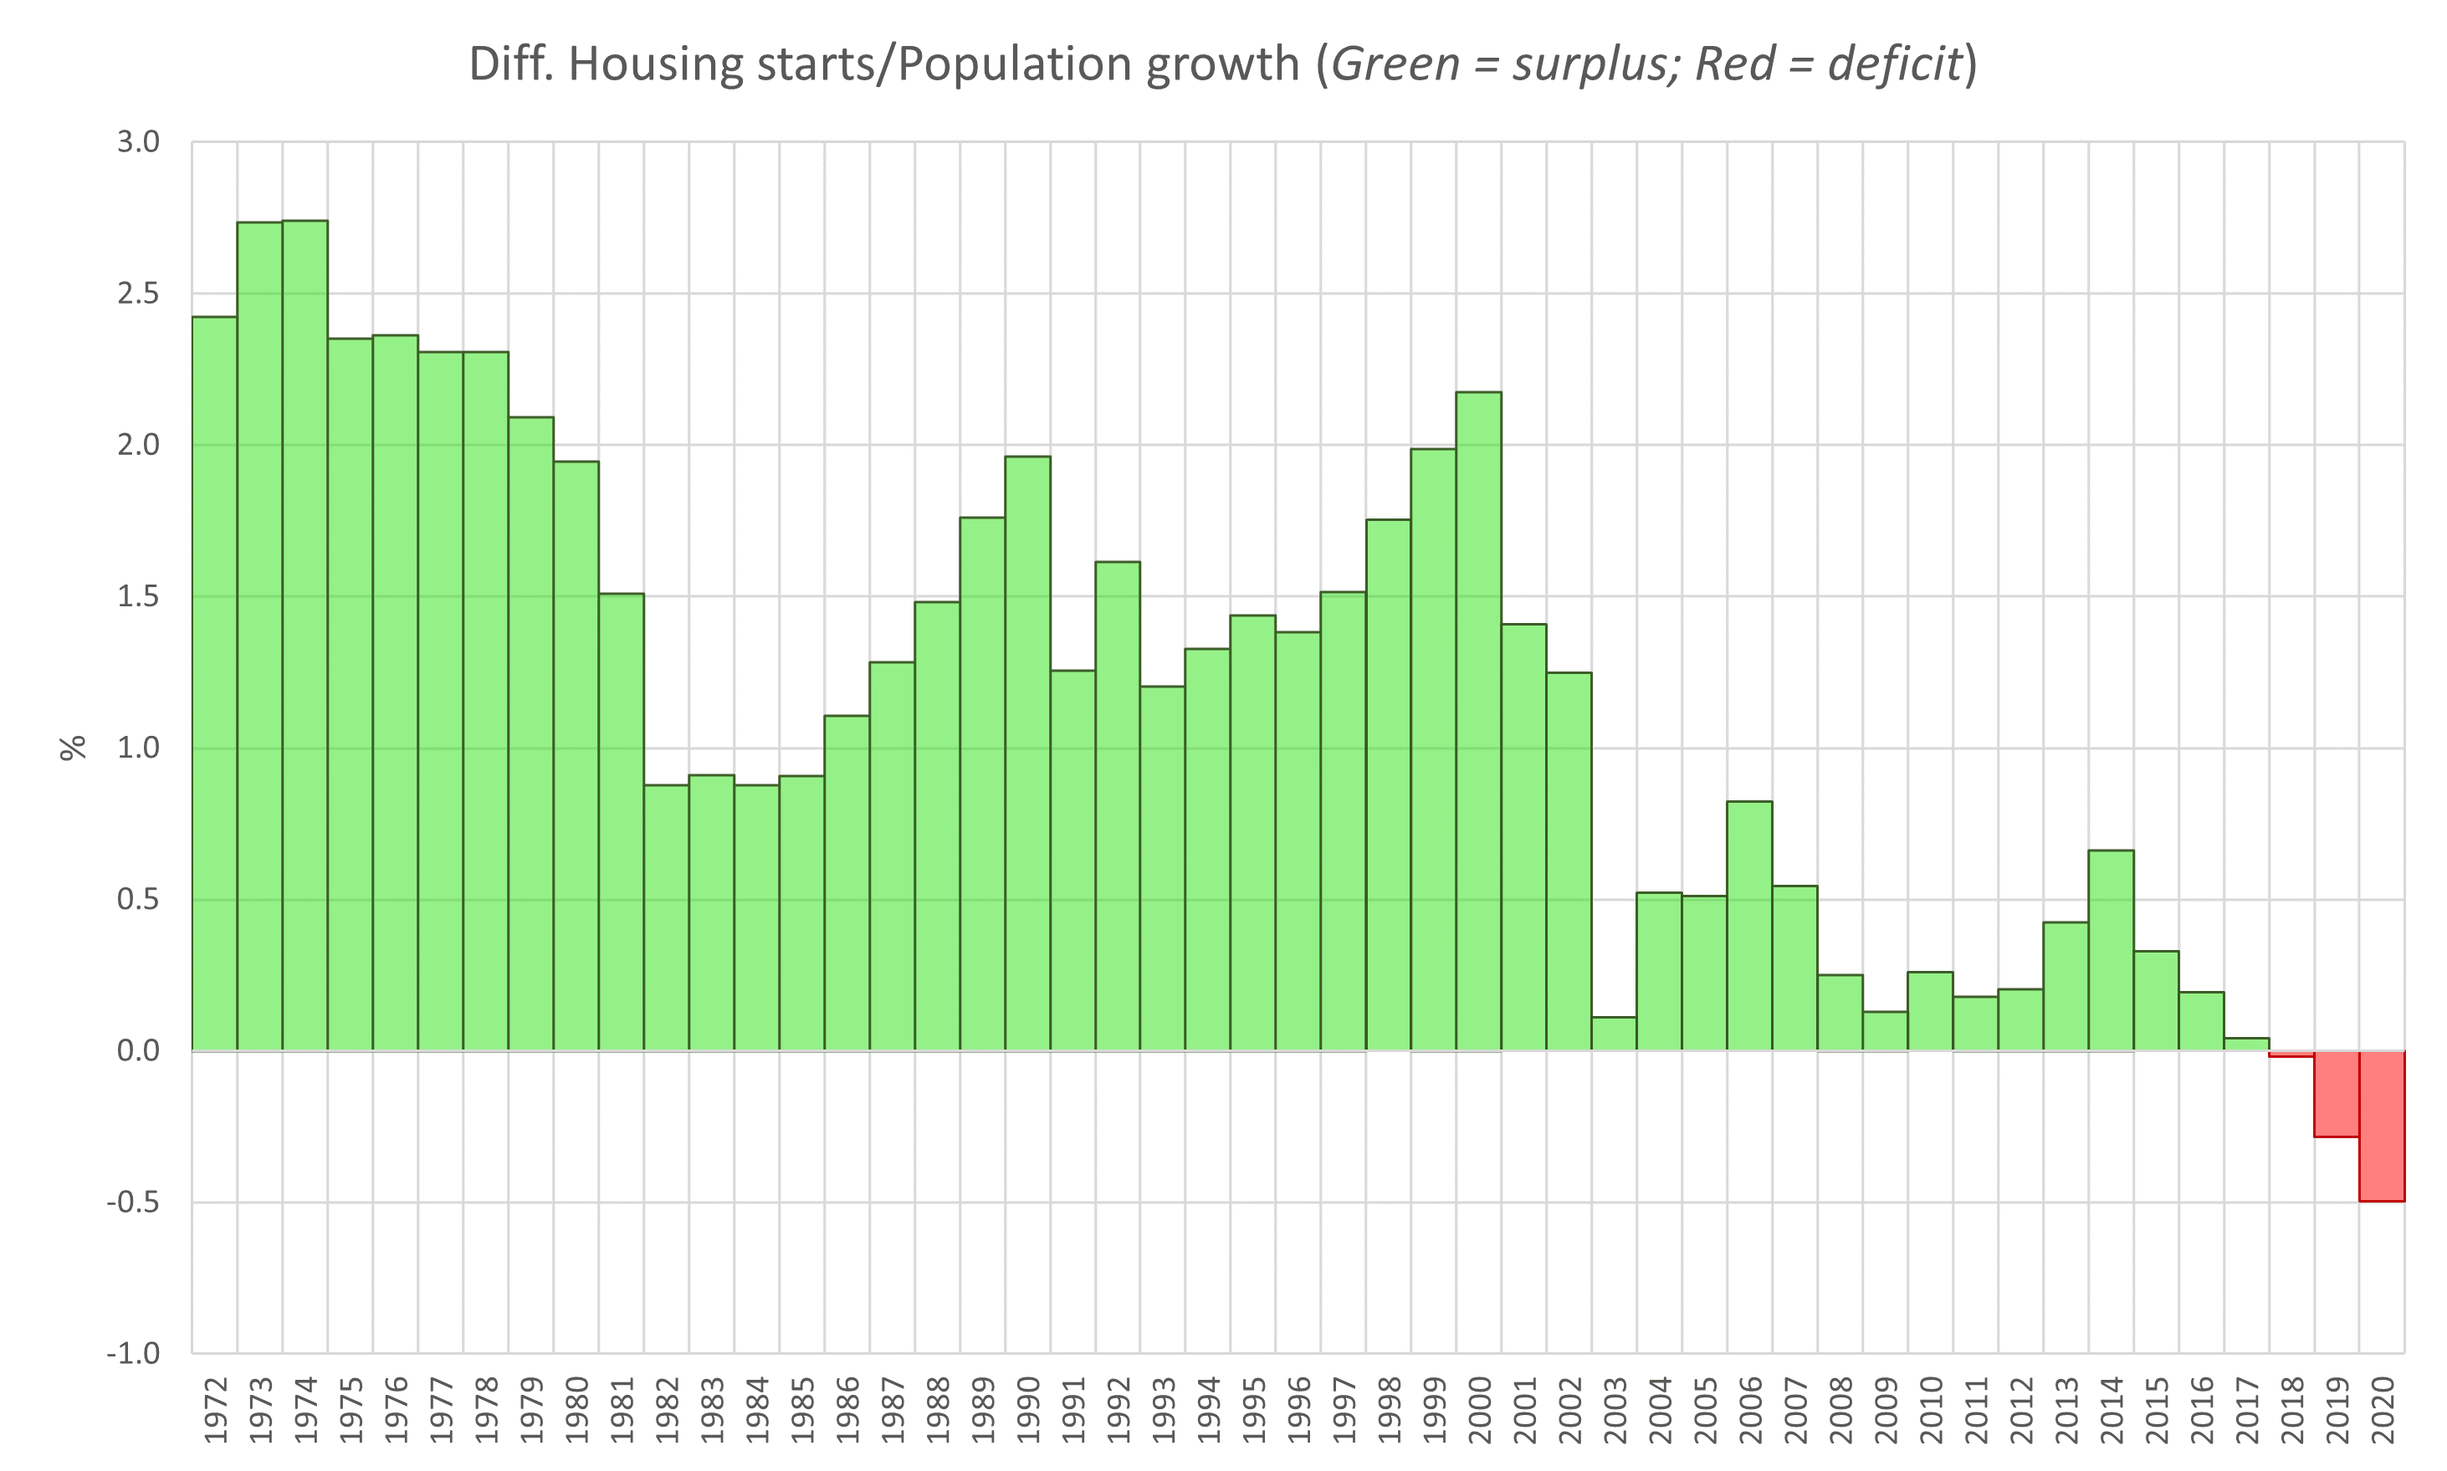
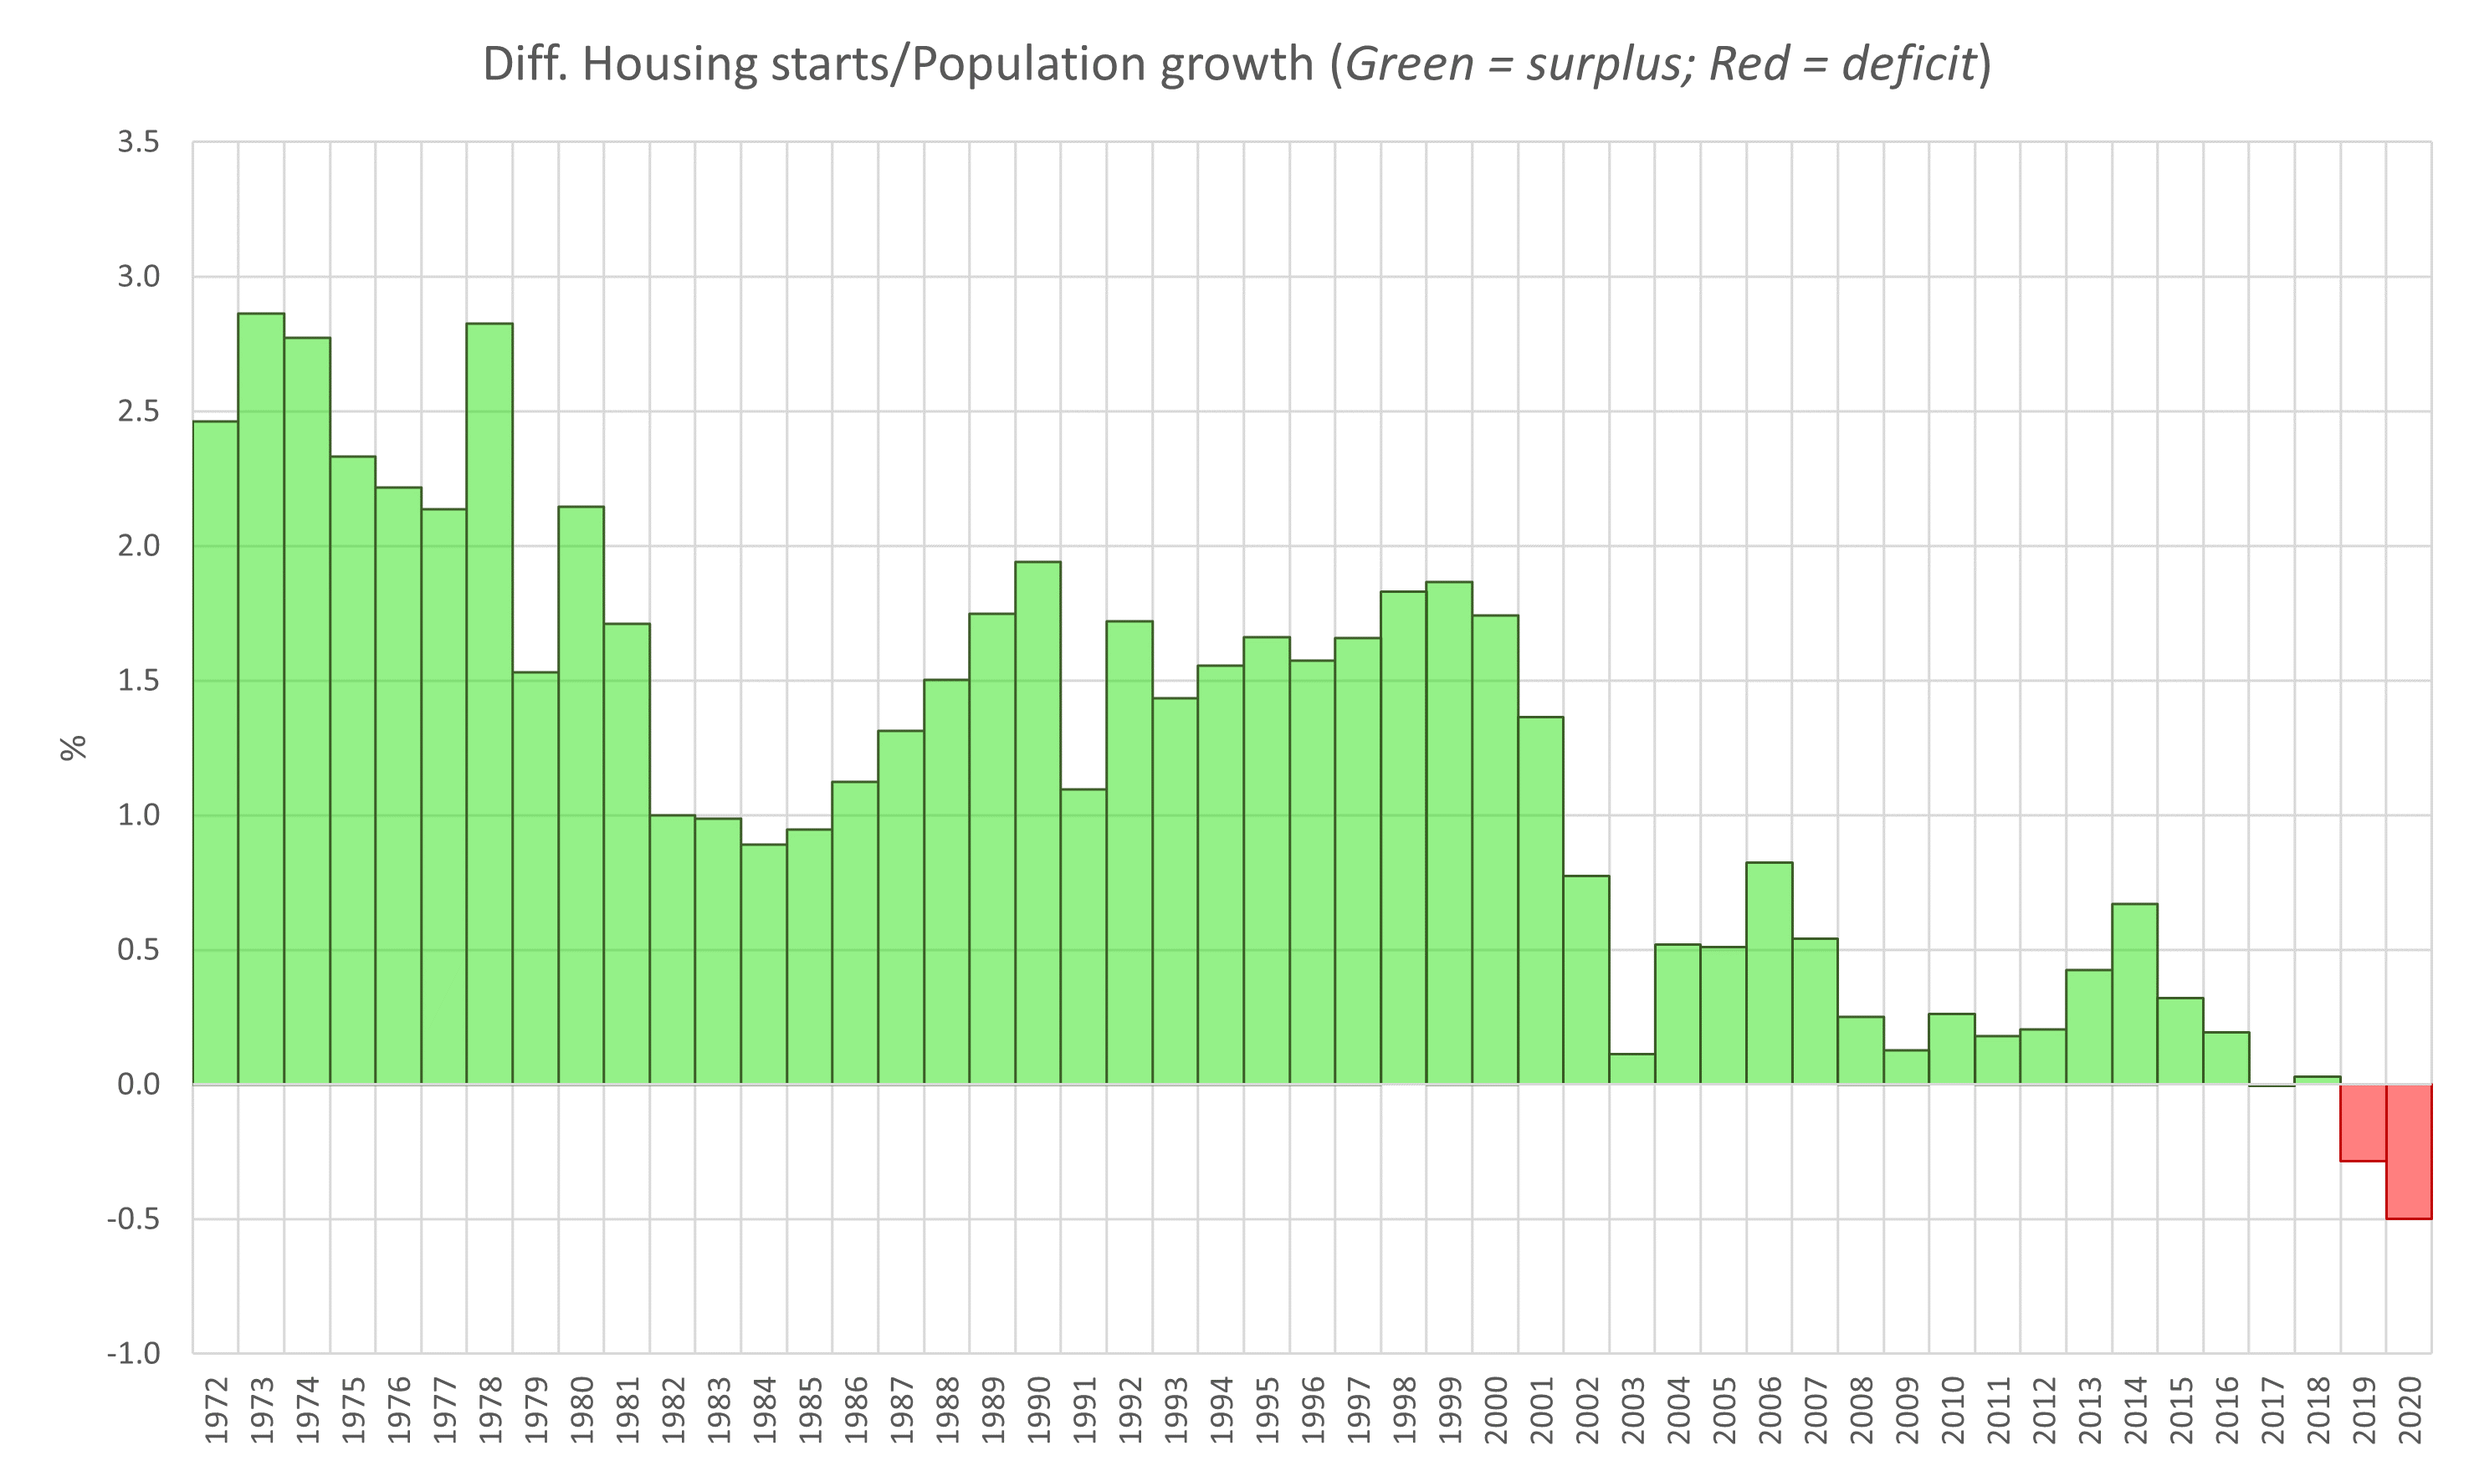
thg

diff --git a/pages/posts/balance.md b/pages/posts/balance.md
@@ -18,8 +18,8 @@ import Image from 'next/image'
 
 The chart from above shows the pace of housing construction, depending on whether it has been a year of surplus (new builds grow faster than the population), or deficit (the population is growing faster than the pace of construction). Some observations:
 
-- **Observation A**: Between 1972 and 2017 the situation is of surplus.
-- **Observation B**: Since 2018 the dominant situation is of a deficit.
+- **Observation A**: Between 1972 and 2018 the situation is of surplus.
+- **Observation B**: Since 2019 the dominant situation is of a deficit.
 
 # Data sources
 
